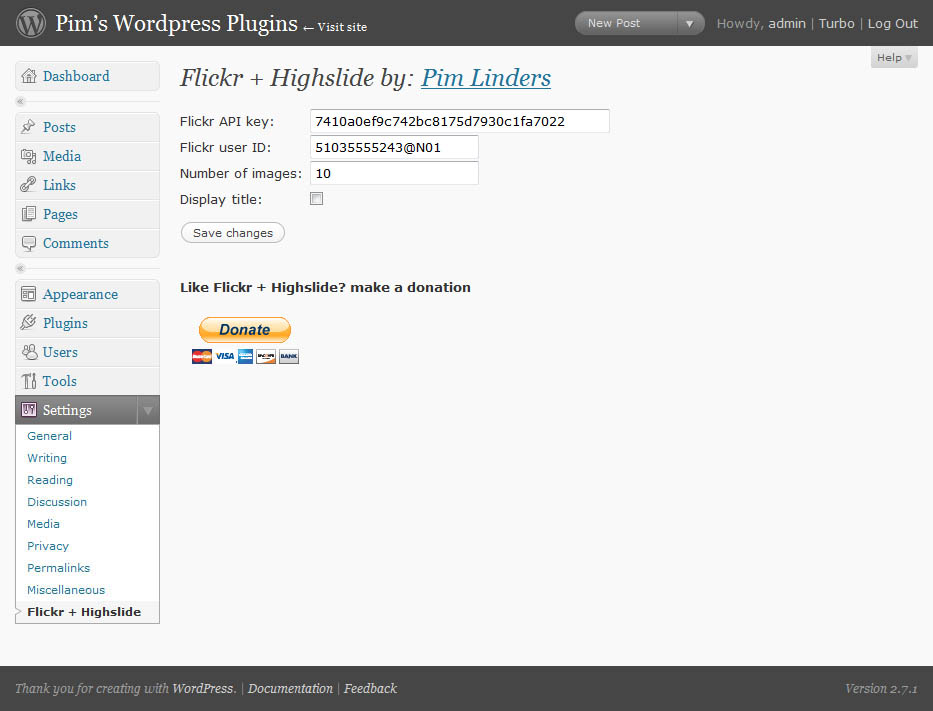
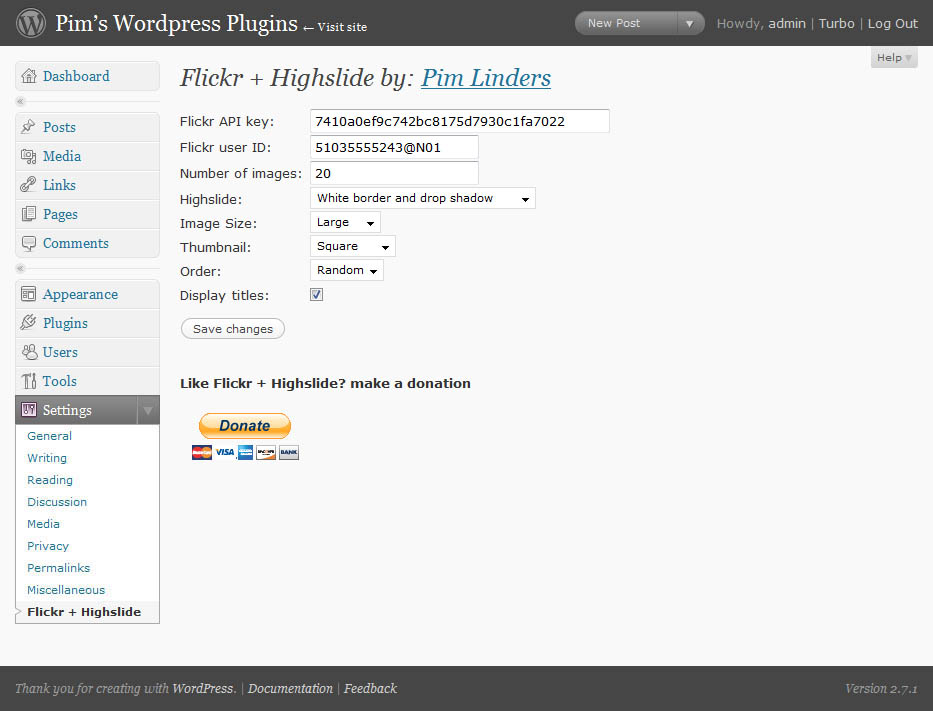
git-svn-id: https://plugins.svn.wordpress.org/flickr-highslide/trunk@113350 b8457f37-d9ea-0310-8a92-e5e31aec5664

Changed region(s): [[0.1865, 0.2475, 0.5284, 0.6498]]

diff --git a/flickr-highslide.php b/flickr-highslide.php
@@ -3,7 +3,7 @@
 Plugin Name: Flickr + Highslide
 Plugin URI: http://www.pimlinders.com/wordpress/
 Description: This plugin displays flickr photos using highslide.
-Version: 0.1
+Version: 0.3
 Author: Pim Linders
 Author URI: http://www.pimlinders.com
  ____                       
@@ -48,29 +48,63 @@ http://www.highslide.com/ on commercial websites.
 function flickr_highslide_menu() {
   add_options_page('Flickr + Highslide Options', 'Flickr + Highslide', 8, __FILE__, 'flickr_highslide_options');
 }
-function flickr_highslide_head() {
+function flickr_highslide_head() {	
 	$plugindir = get_bloginfo('wpurl').'/wp-content/plugins/'.dirname(plugin_basename(__FILE__));
 	echo "<script type='text/javascript' src='$plugindir/highslide/highslide.packed.js'></script>\n";
 	echo "<script type='text/javascript'>hs.graphicsDir = '$plugindir/highslide/graphics/'; hs.showCredits = false;</script>\n";
+	echo "<script type='text/javascript'>";
+	$options = get_option('options');
+	if ($options == '1'){
+		echo "hs.wrapperClassName = 'wide-border';";
+	}
+	else if ($options == '2'){
+		echo "hs.registerOverlay({html: \"<div class='closebutton' onclick='return hs.close(this)' title='Close'></div>\",position: 'top right',fade: 2 });hs.wrapperClassName = 'borderless'; ";
+	}
+	else if ($options == '3'){
+		echo "hs.outlineType = 'rounded-white';";
+	}
+	else if ($options == '4'){
+		echo "hs.outlineType = 'outer-glow';hs.wrapperClassName = 'outer-glow';";
+	}
+	else if ($options == '5'){
+		echo "hs.outlineType = null; hs.wrapperClassName = 'colored-border';";
+	}
+	else{
+		echo "hs.wrapperClassName = 'wide-border';";
+	}
+	echo "</script>\n";
 	echo "<link rel='stylesheet' href='$plugindir/highslide/highslide.css' type='text/css' />\n";
 }
+
 function flickr_highslide_activate() {
 	update_option("apikey");
 	update_option("id");
 	update_option("imageNum");
 	update_option("title");
+	update_option("options");
+	update_option("order");
+	update_option("imageSize");
+	update_option("thumb");
 }
 function flickr_highslide_init(){
 	register_setting('flickr_highslide_options', 'apikey');
 	register_setting('flickr_highslide_options', 'id');
 	register_setting('flickr_highslide_options', 'imageNum');
 	register_setting('flickr_highslide_options', 'title');
+	register_setting('flickr_highslide_options', 'options');
+	register_setting('flickr_highslide_options', 'order');
+	register_setting('flickr_highslide_options', 'imageSize');
+	register_setting('flickr_highslide_options', 'thumb');	
 }
 function flickr_highslide_options() {
 	register_setting('flickr_highslide_options', 'apikey');
 	register_setting('flickr_highslide_options', 'id');
 	register_setting('flickr_highslide_options', 'imageNum');
 	register_setting('flickr_highslide_options', 'title');
+	register_setting('flickr_highslide_options', 'options');
+	register_setting('flickr_highslide_options', 'order');
+	register_setting('flickr_highslide_options', 'imageSize');
+	register_setting('flickr_highslide_options', 'thumb');	
 ?>
 	<div class="wrap">
     	<h2>Flickr + Highslide by: <a href="http://www.pimlinders.com/">Pim Linders</a></h2>
@@ -85,7 +119,35 @@ function flickr_highslide_options() {
             <label style="position:absolute; padding-top:5px;">Number of images:</label>
             <input style="margin-left:130px;" type="text" name="imageNum" value="<?php echo get_option('imageNum'); ?>" />
             <br />
-            <label style="position:absolute; padding-top:5px;">Display title:</label>
+            <label style="position:absolute; padding-top:5px;">Highslide:</label>
+			<select name="options"style="margin-left:130px;">							
+				<option <?php if (get_option('options') == '1') { ?> selected="selected" <?php } ?> value="1">White border and drop shadow</option>
+				<option <?php if (get_option('options') == '2') { ?> selected="selected" <?php } ?> value="2">Drop shadow and no border</option>
+                <option <?php if (get_option('options') == '3') { ?> selected="selected" <?php } ?> value="3">White outline with rounded corners</option>
+                <option <?php if (get_option('options') == '4') { ?> selected="selected" <?php } ?> value="4">Dark border with outer glow</option>
+                <option <?php if (get_option('options') == '5') { ?> selected="selected" <?php } ?> value="5">No graphic outline</option>
+			</select>
+            <br />
+           	<label style="position:absolute; padding-top:5px;">Image Size:</label>
+			<select name="imageSize" style="margin-left:130px;">							
+				<option <?php if (get_option('imageSize') == 'large') { ?> selected="selected" <?php } ?> value="large">Large</option>
+				<option <?php if (get_option('imageSize') == 'medium') { ?> selected="selected" <?php } ?> value="medium">Medium</option>
+                <option <?php if (get_option('imageSize') == 'small') { ?> selected="selected" <?php } ?> value="small">Small</option>
+			</select>
+            <br />
+            <label style="position:absolute; padding-top:5px;">Thumbnail:</label>
+			<select name="thumb" style="margin-left:130px;">							
+				<option <?php if (get_option('thumb') == 'square') { ?> selected="selected" <?php } ?> value="square">Square</option>
+				<option <?php if (get_option('thumb') == 'thumbnail') { ?> selected="selected" <?php } ?> value="thumbnail">Thumbnail</option>
+			</select>
+            <br />
+            <label style="position:absolute; padding-top:5px;">Order:</label>
+			<select name="order" style="margin-left:130px;">							
+				<option <?php if (get_option('order') == 'latest') { ?> selected="selected" <?php } ?> value="latest">Latest</option>
+				<option <?php if (get_option('order') == 'random') { ?> selected="selected" <?php } ?> value="random">Random</option>
+			</select>
+            <br />
+            <label style="position:absolute; padding-top:5px;">Display titles:</label>
             <input style="margin-left:130px; margin-top:6px;" type="checkbox" name="title" value="true" <?php if(get_option('title')  == "true"){echo "checked" ;}?>/>
             <p class="submit" style="padding-top:10px;"><input type="submit" name="Submit" value="Save changes"/></p>
         </form>
@@ -106,27 +168,58 @@ add_shortcode('flickr_highslide', 'flickr_highslide');
 register_activation_hook( __FILE__, 'flickr_highslide_activate' );
 ?>
 <?php
+function random($total){
+	$imageNum = get_option('imageNum');
+	if($total > 100)
+		$total = 100;
+	if ($imageNum > $total)
+		$imageNum = $total;
+	$numbers = array(); 
+	for ($i=0; $i<$total; $i++) {
+		$numbers[$i] = $i;
+	}
+	$rand = array_rand($numbers, $imageNum);
+	return $rand;
+}
 function flickr_highslide(){
 	$apikey = get_option('apikey');
 	$id = get_option('id');
-	$imagesNum = get_option('imageNum');
-	if($apikey == '' || $id == '' || $imagesNum == ''){
+	$imageNum = get_option('imageNum');
+	$order = get_option('order');
+	$imageSize = get_option('imageSize');
+	$thumbnail = get_option('thumb');
+	if($apikey == '' || $id == '' || $imageNum == '')
 		echo '<p>To configure Flickr + Highslide go to Admin -> Setting -> Flickr + Highslide</p>';
-	}
 	else{	
 		$xml = simplexml_load_file("http://flickr.com/services/rest/?method=flickr.people.getPublicPhotos&user_id=$id&api_key=$apikey");
 		if ($xml->err['msg']){
 			echo '<p>Flickr + Highslide is not configured correctly</p><p>Error Message: ' . $xml->err['msg'] . '</p>';	
 		}
 		else{
+			$total = $xml->photos['total'];
+			if ($order == 'random')
+				$random = random($total);
+			if ($imageSize == 'medium')
+				$size = '';
+			else if ($imageSize == 'small')
+				$size = '_m';
+			else
+				$size = '_b';
+			if ($thumbnail == 'thumbnail')
+				$thumbnail = '_t';
+			else
+				$thumbnail = '_s';	
 		?>
         <!-- Flickr + Highslide by Pim Linders http://www.pimlinders.com/ -->
 		<div class="flickr_highslide" style="overflow:auto;">
 		<?php
-			for ($i = 0; $i<$imagesNum; $i++) {
-				if($xml->photos->photo[$i]['server'] == NULL){
+			for ($k=0; $k<$imageNum; $k++) {
+				if ($order == 'random')
+					$i = $random[$k];
+				else
+					$i = $k;
+				if($xml->photos->photo[$i]['server'] == NULL)
 					break;
-				}
 				?>
                 <a href="<?php 
                 echo "http://static.flickr.com/";
@@ -135,7 +228,7 @@ function flickr_highslide(){
                 echo $xml->photos->photo[$i]['id'];
                 echo "_";
                 echo $xml->photos->photo[$i]['secret'];
-                echo "_b.jpg"; 
+                echo "$size.jpg"; 
                 ?>" class="highslide" onclick="return hs.expand(this)">
                 <img src="<?php 
                 echo "http://static.flickr.com/";
@@ -144,7 +237,7 @@ function flickr_highslide(){
                 echo $xml->photos->photo[$i]['id'];
                 echo "_";
                 echo $xml->photos->photo[$i]['secret'];
-                echo "_s.jpg"; 
+                echo "$thumbnail.jpg"; 
                 ?>" 
                 alt="" /></a>
                 <?php if (get_option('title')){ ?>
